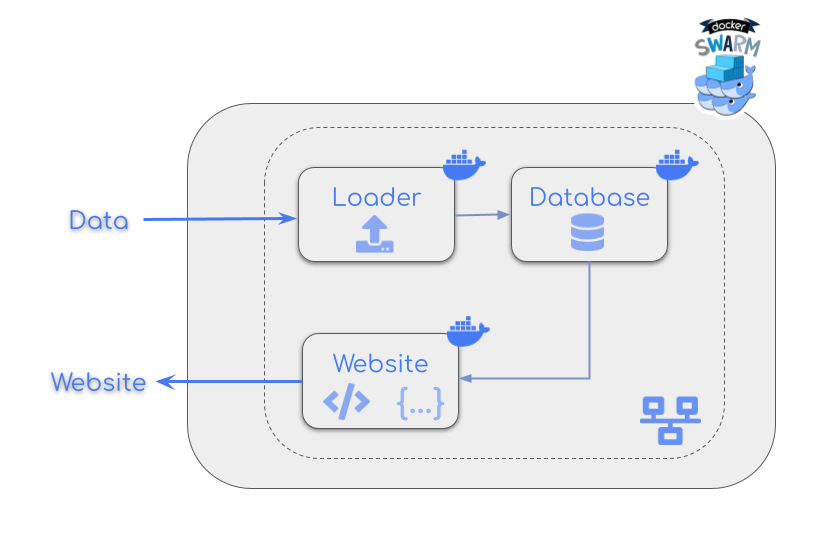
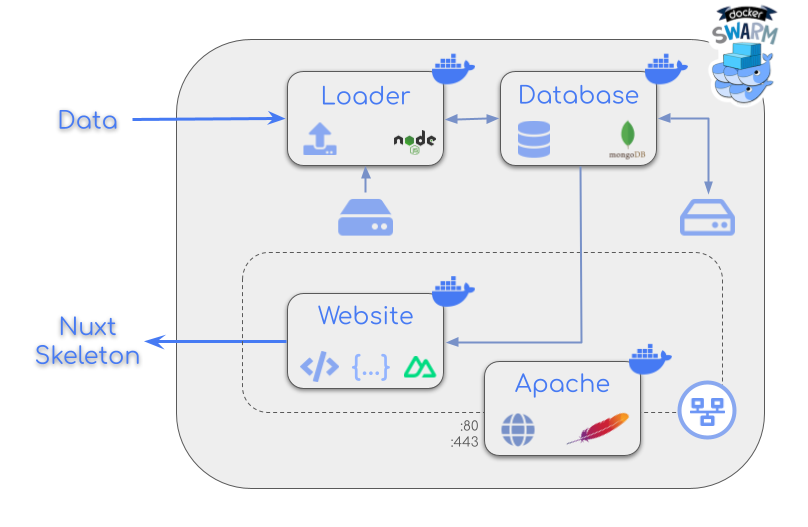
All variables in .env and READMEs improved

diff --git a/README.md b/README.md
@@ -58,8 +58,8 @@ services:
       args:
         WEBSITE_INNER_PORT: ${WEBSITE_INNER_PORT} 
     ports:
-      - "${APACHE_HTTP_PORT}:80"
-      - "${APACHE_HTTPS_PORT}:443"
+      - "${APACHE_HTTP_OUTER_PORT}:${APACHE_HTTP_INNER_PORT}"
+      - "${APACHE_HTTPS_OUTER_PORT}:${APACHE_HTTPS_INNER_PORT}"
     networks:
       - webnet
     deploy:
@@ -71,6 +71,8 @@ services:
         reservations:
           cpus: ${APACHE_CPU_RESERVATION}   # Specify the reserved number of CPUs
           memory: ${APACHE_MEMORY_RESERVATION}   # Specify the reserved memory
+      restart_policy:
+        condition: any   # Restart always
 
   loader:
     image: loader_image   # name of loader image
@@ -78,7 +80,7 @@ services:
       context: ./loader   # folder to search Dockerfile for this image
       args:
         DB_HOST: ${DB_HOST} 
-        DB_PORT: ${DB_PORT}
+        DB_PORT: ${DB_OUTER_PORT}
         DB_DATABASE: ${DB_DATABASE} 
         DB_AUTHSOURCE: ${DB_AUTHSOURCE} 
         LOADER_DB_LOGIN: ${LOADER_DB_LOGIN}
@@ -86,7 +88,7 @@ services:
     volumes:
       - loader_volume:/data   # path from where the data will be taken
     networks:
-      - my_network
+      - dbnet
     deploy:
       replicas: ${LOADER_REPLICAS}  # Ensure this service is not deployed by default as it is a one-time task
       resources:
@@ -103,7 +105,7 @@ services:
       context: ./website  # folder to search Dockerfile for this image
       args:
         DB_HOST: ${DB_HOST}
-        DB_PORT: ${DB_PORT}
+        DB_PORT: ${DB_OUTER_PORT}
         DB_DATABASE: ${DB_DATABASE}
         DB_AUTHSOURCE: ${DB_AUTHSOURCE}
         WEBSITE_INNER_PORT: ${WEBSITE_INNER_PORT}
@@ -118,7 +120,7 @@ services:
     ports:
       - "${WEBSITE_PORT}:${WEBSITE_INNER_PORT}"   # port mapping, be aware that the second port is the same exposed in the website/Dockerfile
     networks:
-      - my_network
+      - dbnet
       - webnet
     deploy:
       replicas: ${WEBSITE_REPLICAS}   # Specify the number of replicas for Docker Swarm
@@ -140,12 +142,12 @@ services:
       MONGO_INITDB_ROOT_USERNAME: ${MONGO_INITDB_ROOT_USERNAME}
       MONGO_INITDB_ROOT_PASSWORD: ${MONGO_INITDB_ROOT_PASSWORD}
     ports:
-      - "${DB_PORT}:27017"
+      - "${DB_OUTER_PORT}:${DB_INNER_PORT}"
     volumes:
       - ${DB_VOLUME_PATH}:/data/db   # path where the database will be stored (outside the container, in the host machine)
       - ./mongo-init.js:/docker-entrypoint-initdb.d/mongo-init.js:ro   # path to the initialization script
     networks:
-      - my_network
+      - dbnet
     deploy:
       replicas: ${DB_REPLICAS}   # Specify the number of replicas for Docker Swarm
       resources:
@@ -167,7 +169,7 @@ volumes:
       device: ${LOADER_VOLUME_PATH}   # bind the volume to LOADER_VOLUME_PATH on the host
 
 networks:
-  my_network: 
+  dbnet: 
     external: true   # Use an external network
   webnet:
     name: webnet   # Name of the network
@@ -186,8 +188,10 @@ An `.env` file must be created in the **root** folder. The file [`.env.git`](.en
 | ---------------- | ------- | ----------------------------------------------- |
 | DOCKER_DEFAULT_PLATFORM         | string  | default platform (architecture and operating system), ie linux/amd64                               |
 | &nbsp;
-| APACHE_HTTP_PORT         | number  | apache outer port for http protocol                                        |
-| APACHE_HTTPS_PORT         | number  | apache outer port for https protocol                                        |
+| APACHE_HTTP_OUTER_PORT         | number  | apache outer port for http protocol                                        |
+| APACHE_HTTPS_OUTER_PORT         | number  | apache outer port for https protocol                                        |
+| APACHE_HTTP_INNER_PORT         | number  | apache inner port for http protocol                                        |
+| APACHE_HTTPS_INNER_PORT         | number  | apache inner port for https protocol                                        |
 | APACHE_REPLICAS         | number  | apache number of replicas to deploy                                        |
 | APACHE_CPU_LIMIT         | string  | apache limit number of CPUs                                        |
 | APACHE_MEMORY_LIMIT         | string  | apache limit memory                                        |
@@ -218,7 +222,8 @@ An `.env` file must be created in the **root** folder. The file [`.env.git`](.en
 | WEBSITE_CUSTOM    | string  | whether or not custom images and styles provided                               |
 | &nbsp;
 | DB_VOLUME_PATH         | string  | path where the DB will look for files                                        |
-| DB_PORT         | number  | DB outer port                                        |
+| DB_OUTER_PORT         | number  | DB outer port                                        |
+| DB_INNER_PORT         | number  | DB inner port                                        |
 | DB_REPLICAS         | number  | DB number of replicas to deploy                                        |
 | DB_CPU_LIMIT      | string  | DB limit number of CPUs                                    |
 | DB_MEMORY_LIMIT          | string | DB limit memory                           |
@@ -267,10 +272,10 @@ docker swarm init
 docker swarm init --advertise-addr <IP_ADDRESS>
 ```
 
-In order to execute the **long-term** tasks in **Docker Swarm** and the **one-off tasks**, such as the **loader** in this proof of concept, in **Docker Compose**, the **network** is declared as **external** in the **docker-compose.yml** file, so it must be created before the `docker-compose build` and the `docker stak deploy`:
+In order to execute the **long-term** tasks in **Docker Swarm** and the **one-off tasks**, such as the **loader** in this proof of concept, in **Docker Compose**, the **dbnet network** is declared as **external** in the **docker-compose.yml** file, so it must be created before the `docker-compose build` and the `docker stak deploy`:
 
 ```sh
-docker network create --driver overlay --attachable my_network
+docker network create --driver overlay --attachable dbnet
 ```
 
 > NOTE: **From July 2024 onwards**, the instruction for Docker Compose in **mac** is without hyphen, so from now on, `docker-compose build` is `docker compose build` when executing in **macOS**.
@@ -369,10 +374,8 @@ docker-compose run --rm loader remove -d <ID>
 Open a browser and type:
 
 ```
-http://localhost:8080
+http://localhost
 ```
-
-Or modify the port by the one defined as **ports** in the **docker-compose.yml** file.
 
 ## Stop services
 
@@ -471,16 +474,17 @@ Check that the **mongo** and the replicas of **web containers** are up & running
 
 ```sh
 $ docker ps -a
-CONTAINER ID   IMAGE                  COMMAND                  CREATED          STATUS                      PORTS       NAMES
-<ID>           mongo:6                "docker-entrypoint.s…"   21 minutes ago   Up 21 minutes               27017/tcp   my_stack_mongodb.1.<ID>
-<ID>           website_image:latest   "pm2-runtime start e…"   21 minutes ago   Up 21 minutes               3001/tcp    my_stack_website.1.<ID>
-<ID>           website_image:latest   "pm2-runtime start e…"   21 minutes ago   Up 21 minutes               3001/tcp    my_stack_website.2.<ID>
+CONTAINER ID   IMAGE                  COMMAND                  CREATED         STATUS         PORTS             NAMES
+<ID>           apache_image:latest    "httpd-foreground"       4 minutes ago   Up 4 minutes   80/tcp, 443/tcp   my_stack_apache.1.<ID>
+<ID>           mongo:6                "docker-entrypoint.s…"   4 minutes ago   Up 4 minutes   27017/tcp         my_stack_mongodb.1.<ID>
+<ID>           website_image:latest   "pm2-runtime start e…"   4 minutes ago   Up 4 minutes                     my_stack_website.1.<ID>
+<ID>           website_image:latest   "pm2-runtime start e…"   4 minutes ago   Up 4 minutes                     my_stack_website.2.<ID>
 ```
 
 ### Inspect docker network 
 
 ```sh
-docker network inspect my_network
+docker network inspect dbnet
 ```
 
 should show something like:
@@ -488,7 +492,7 @@ should show something like:
 ```json
 [
     {
-        "Name": "my_network",
+        "Name": "dbnet",
         "Id": "<ID>",
         "Created": "<DATE>",
         "Scope": "swarm",
@@ -533,8 +537,8 @@ should show something like:
                 "IPv4Address": "<IP>",
                 "IPv6Address": ""
             },
-            "lb-my_network": {
-                "Name": "my_network-endpoint",
+            "lb-dbnet": {
+                "Name": "dbnet-endpoint",
                 "EndpointID": "<ID>",
                 "MacAddress": "<MAC>",
                 "IPv4Address": "<IP>",
@@ -544,9 +548,7 @@ should show something like:
         "Options": {
             "com.docker.network.driver.overlay.vxlanid_list": "<ID>"
         },
-        "Labels": {
-            "com.docker.stack.namespace": "my_stack"
-        },
+        "Labels": {},
         "Peers": [
             {
                 "Name": "<ID>",
@@ -577,10 +579,11 @@ Check resources consumption for all running containers:
 
 ```sh
 $ docker stats
-CONTAINER ID   NAME                                           CPU %     MEM USAGE / LIMIT   MEM %     NET I/O           BLOCK I/O     PIDS
-<ID>           my_stack_mongodb.1.<ID>                        0.44%     105.2MiB / 2GiB     1.28%     43.1MB / 247MB    0B / 499MB    50
-<ID>           my_stack_website.1.<ID>                        0.26%     73.03MiB / 2GiB     0.71%     59.3MB / 29.9MB   0B / 24.6kB   22
-<ID>           my_stack_website.2.<ID>                        0.33%     70.78MiB / 2GiB     0.69%     60.4MB / 29.5MB   0B / 24.6kB   22
+CONTAINER ID   NAME                                           CPU %     MEM USAGE / LIMIT   MEM %     NET I/O           BLOCK I/O         PIDS
+<ID>           my_stack_apache.1.<ID>                         0.01%     13.35MiB / 1GiB     1.30%     13.1kB / 12.7kB   6.73MB / 4.1kB    109
+<ID>           my_stack_mongodb.1.<ID>                        0.44%     105.2MiB / 2GiB     1.28%     43.1MB / 247MB    0B / 499MB        50
+<ID>           my_stack_website.1.<ID>                        0.26%     73.03MiB / 2GiB     0.71%     59.3MB / 29.9MB   0B / 24.6kB       22
+<ID>           my_stack_website.2.<ID>                        0.33%     70.78MiB / 2GiB     0.69%     60.4MB / 29.5MB   0B / 24.6kB       22
 ```
 
 ### Docker logs

diff --git a/apache/README.md b/apache/README.md
@@ -6,6 +6,8 @@ https://hub.docker.com/_/httpd
 
 ## Dockerfile
 
+**Uncomment** commented lines for configuring **https**. Be aware of having the **public** and **private** files in the **same folder** where the Dockerfile is:
+
 ```Dockerfile
 FROM httpd:2.4
 
@@ -26,4 +28,32 @@ RUN echo "IncludeOptional /usr/local/apache2/conf/conf.d/custom.conf" >> /usr/lo
 # COPY private.key /etc/ssl/private/private.key
 
 EXPOSE 80 443
+```
+
+## Apache conf file
+
+**Uncomment** commented lines for configuring **https**:
+
+```apache
+LoadModule proxy_module /usr/local/apache2/modules/mod_proxy.so
+LoadModule proxy_http_module /usr/local/apache2/modules/mod_proxy_http.so
+# LoadModule ssl_module /usr/local/apache2/modules/mod_ssl.so
+
+<VirtualHost *:80>
+	<Location / >
+   		ProxyPass http://website:WEBSITE_INNER_PORT/
+   		ProxyPassReverse http://website:WEBSITE_INNER_PORT/
+	</Location>
+</VirtualHost>
+
+#<VirtualHost *:443>
+#    SSLEngine on
+#    SSLCertificateFile /etc/ssl/certs/public.pem
+#    SSLCertificateKeyFile /etc/ssl/private/private.key
+#    SSLCertificateChainFile /etc/ssl/certs/public.pem
+#    <Location />
+#        ProxyPass http://website:WEBSITE_INNER_PORT/
+#        ProxyPassReverse http://website:WEBSITE_INNER_PORT/
+#    </Location>
+#</VirtualHost>
 ```
